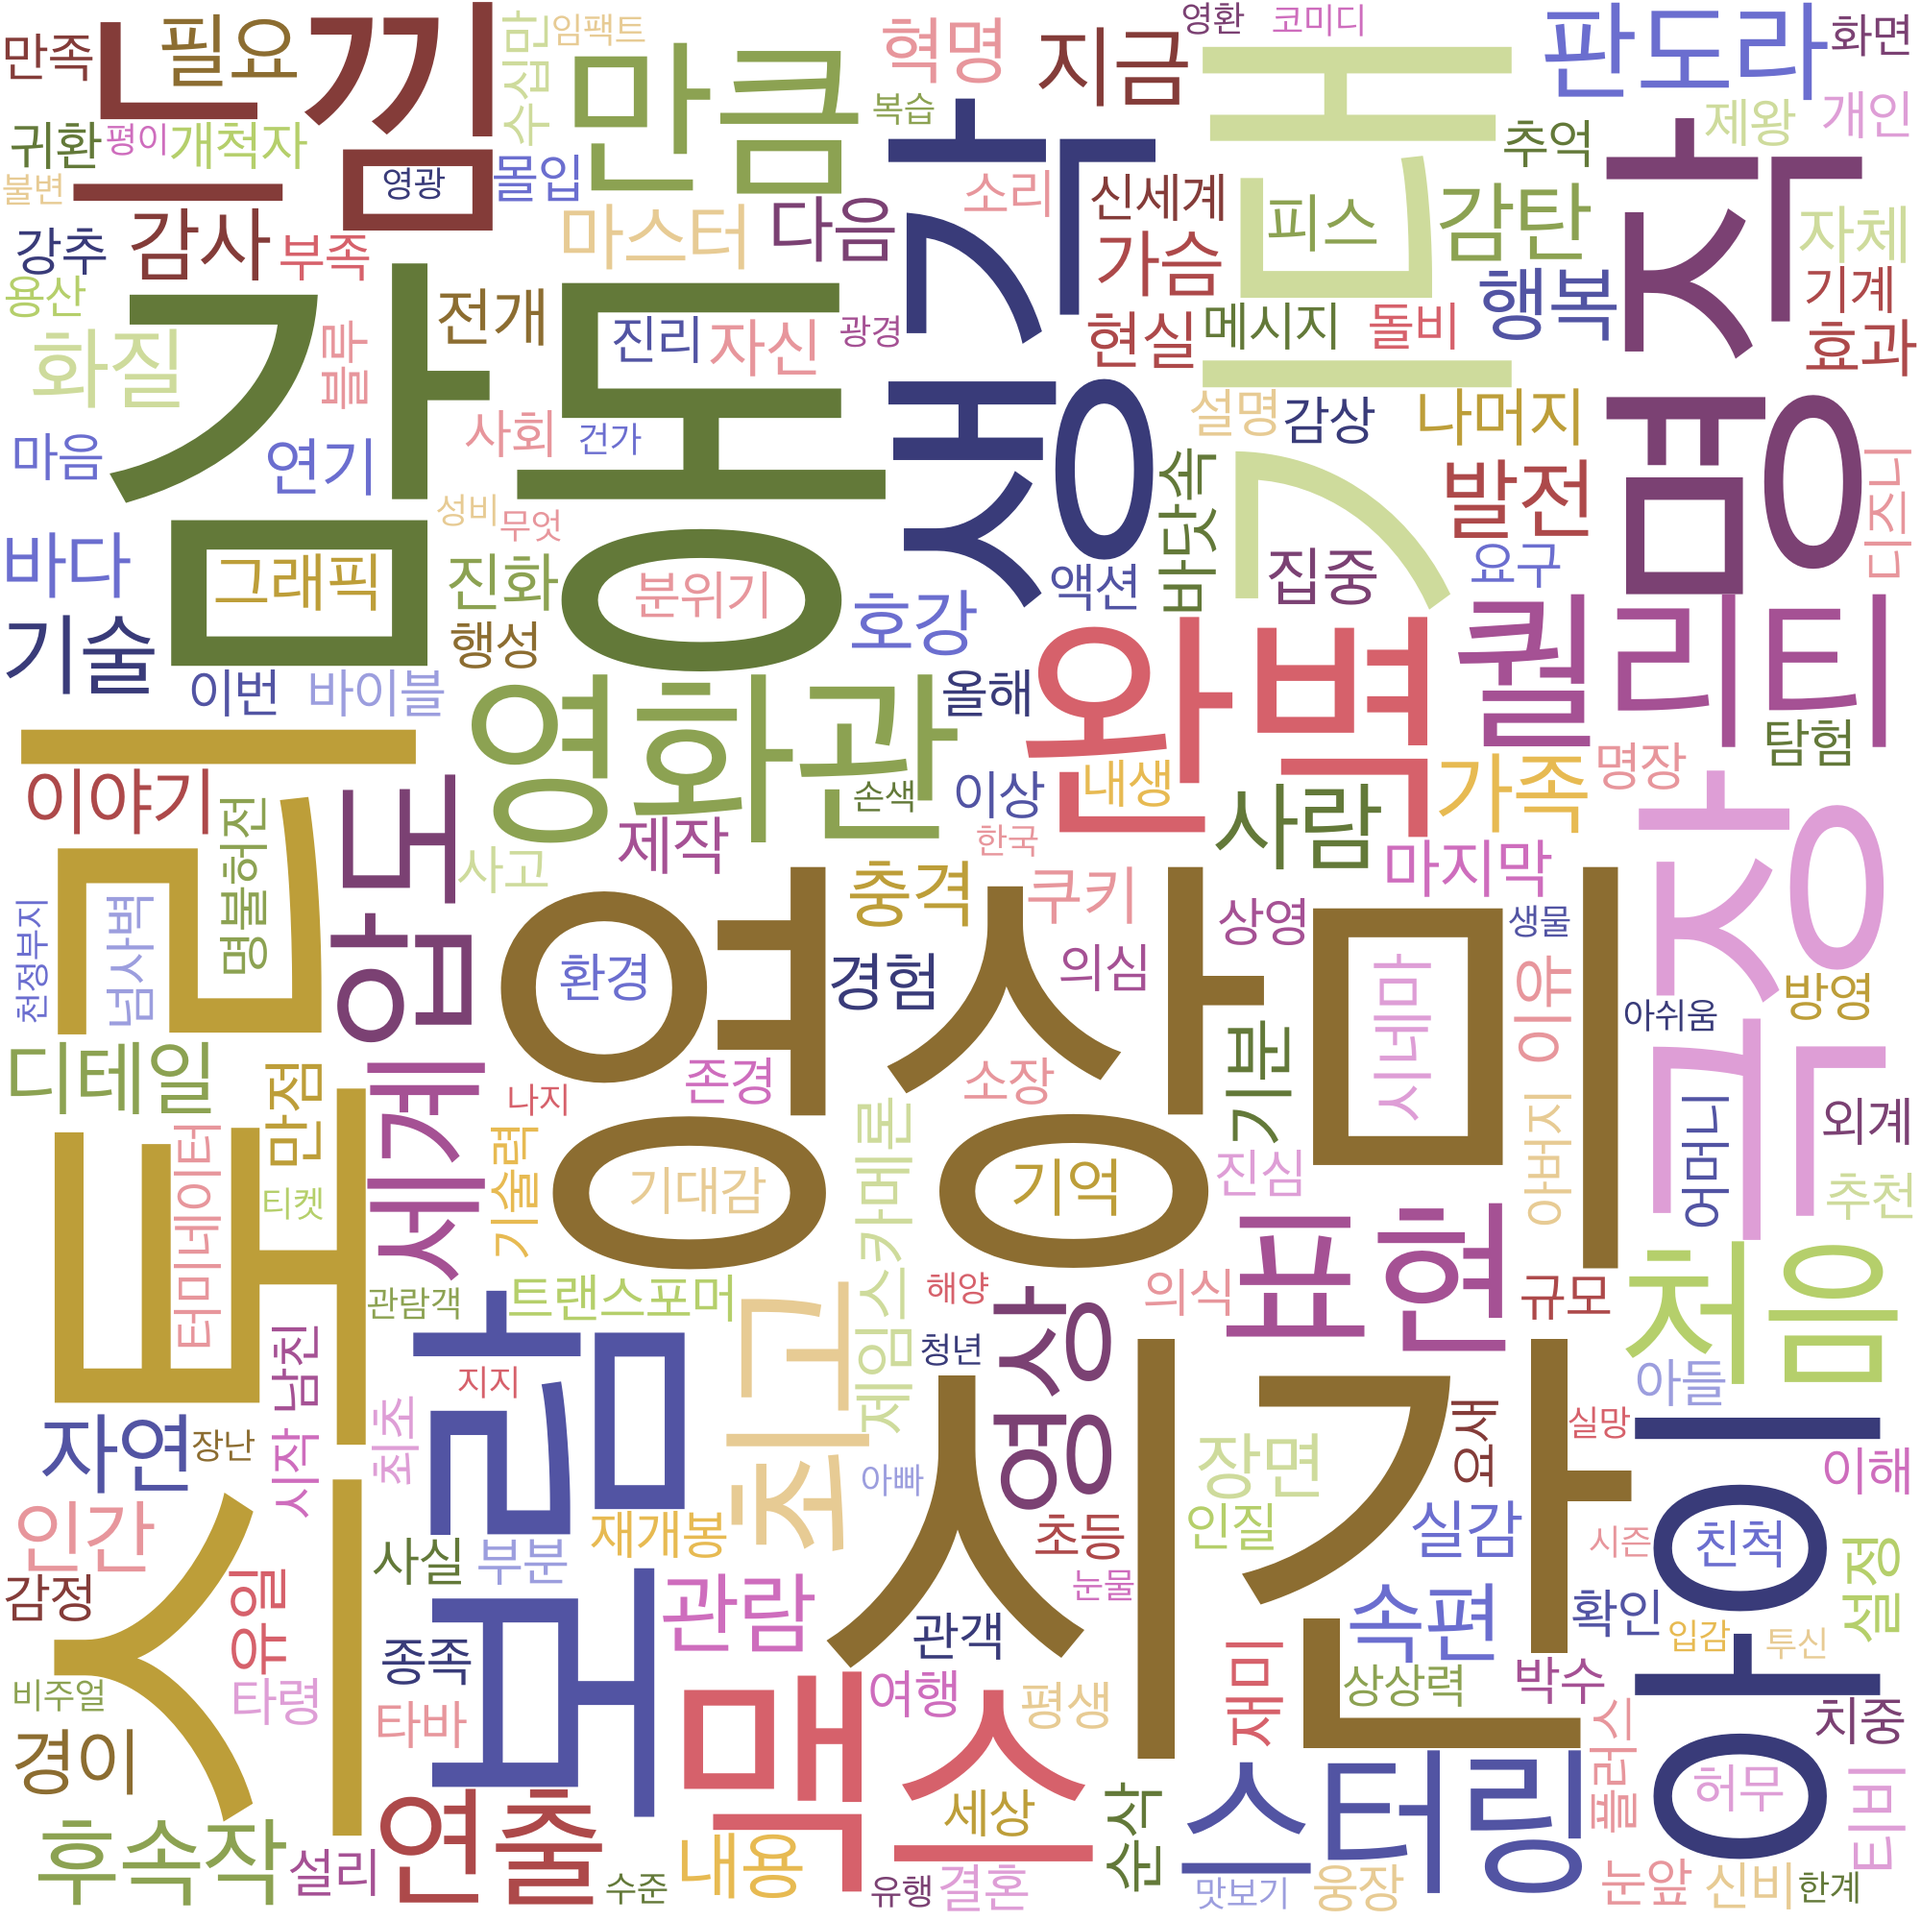
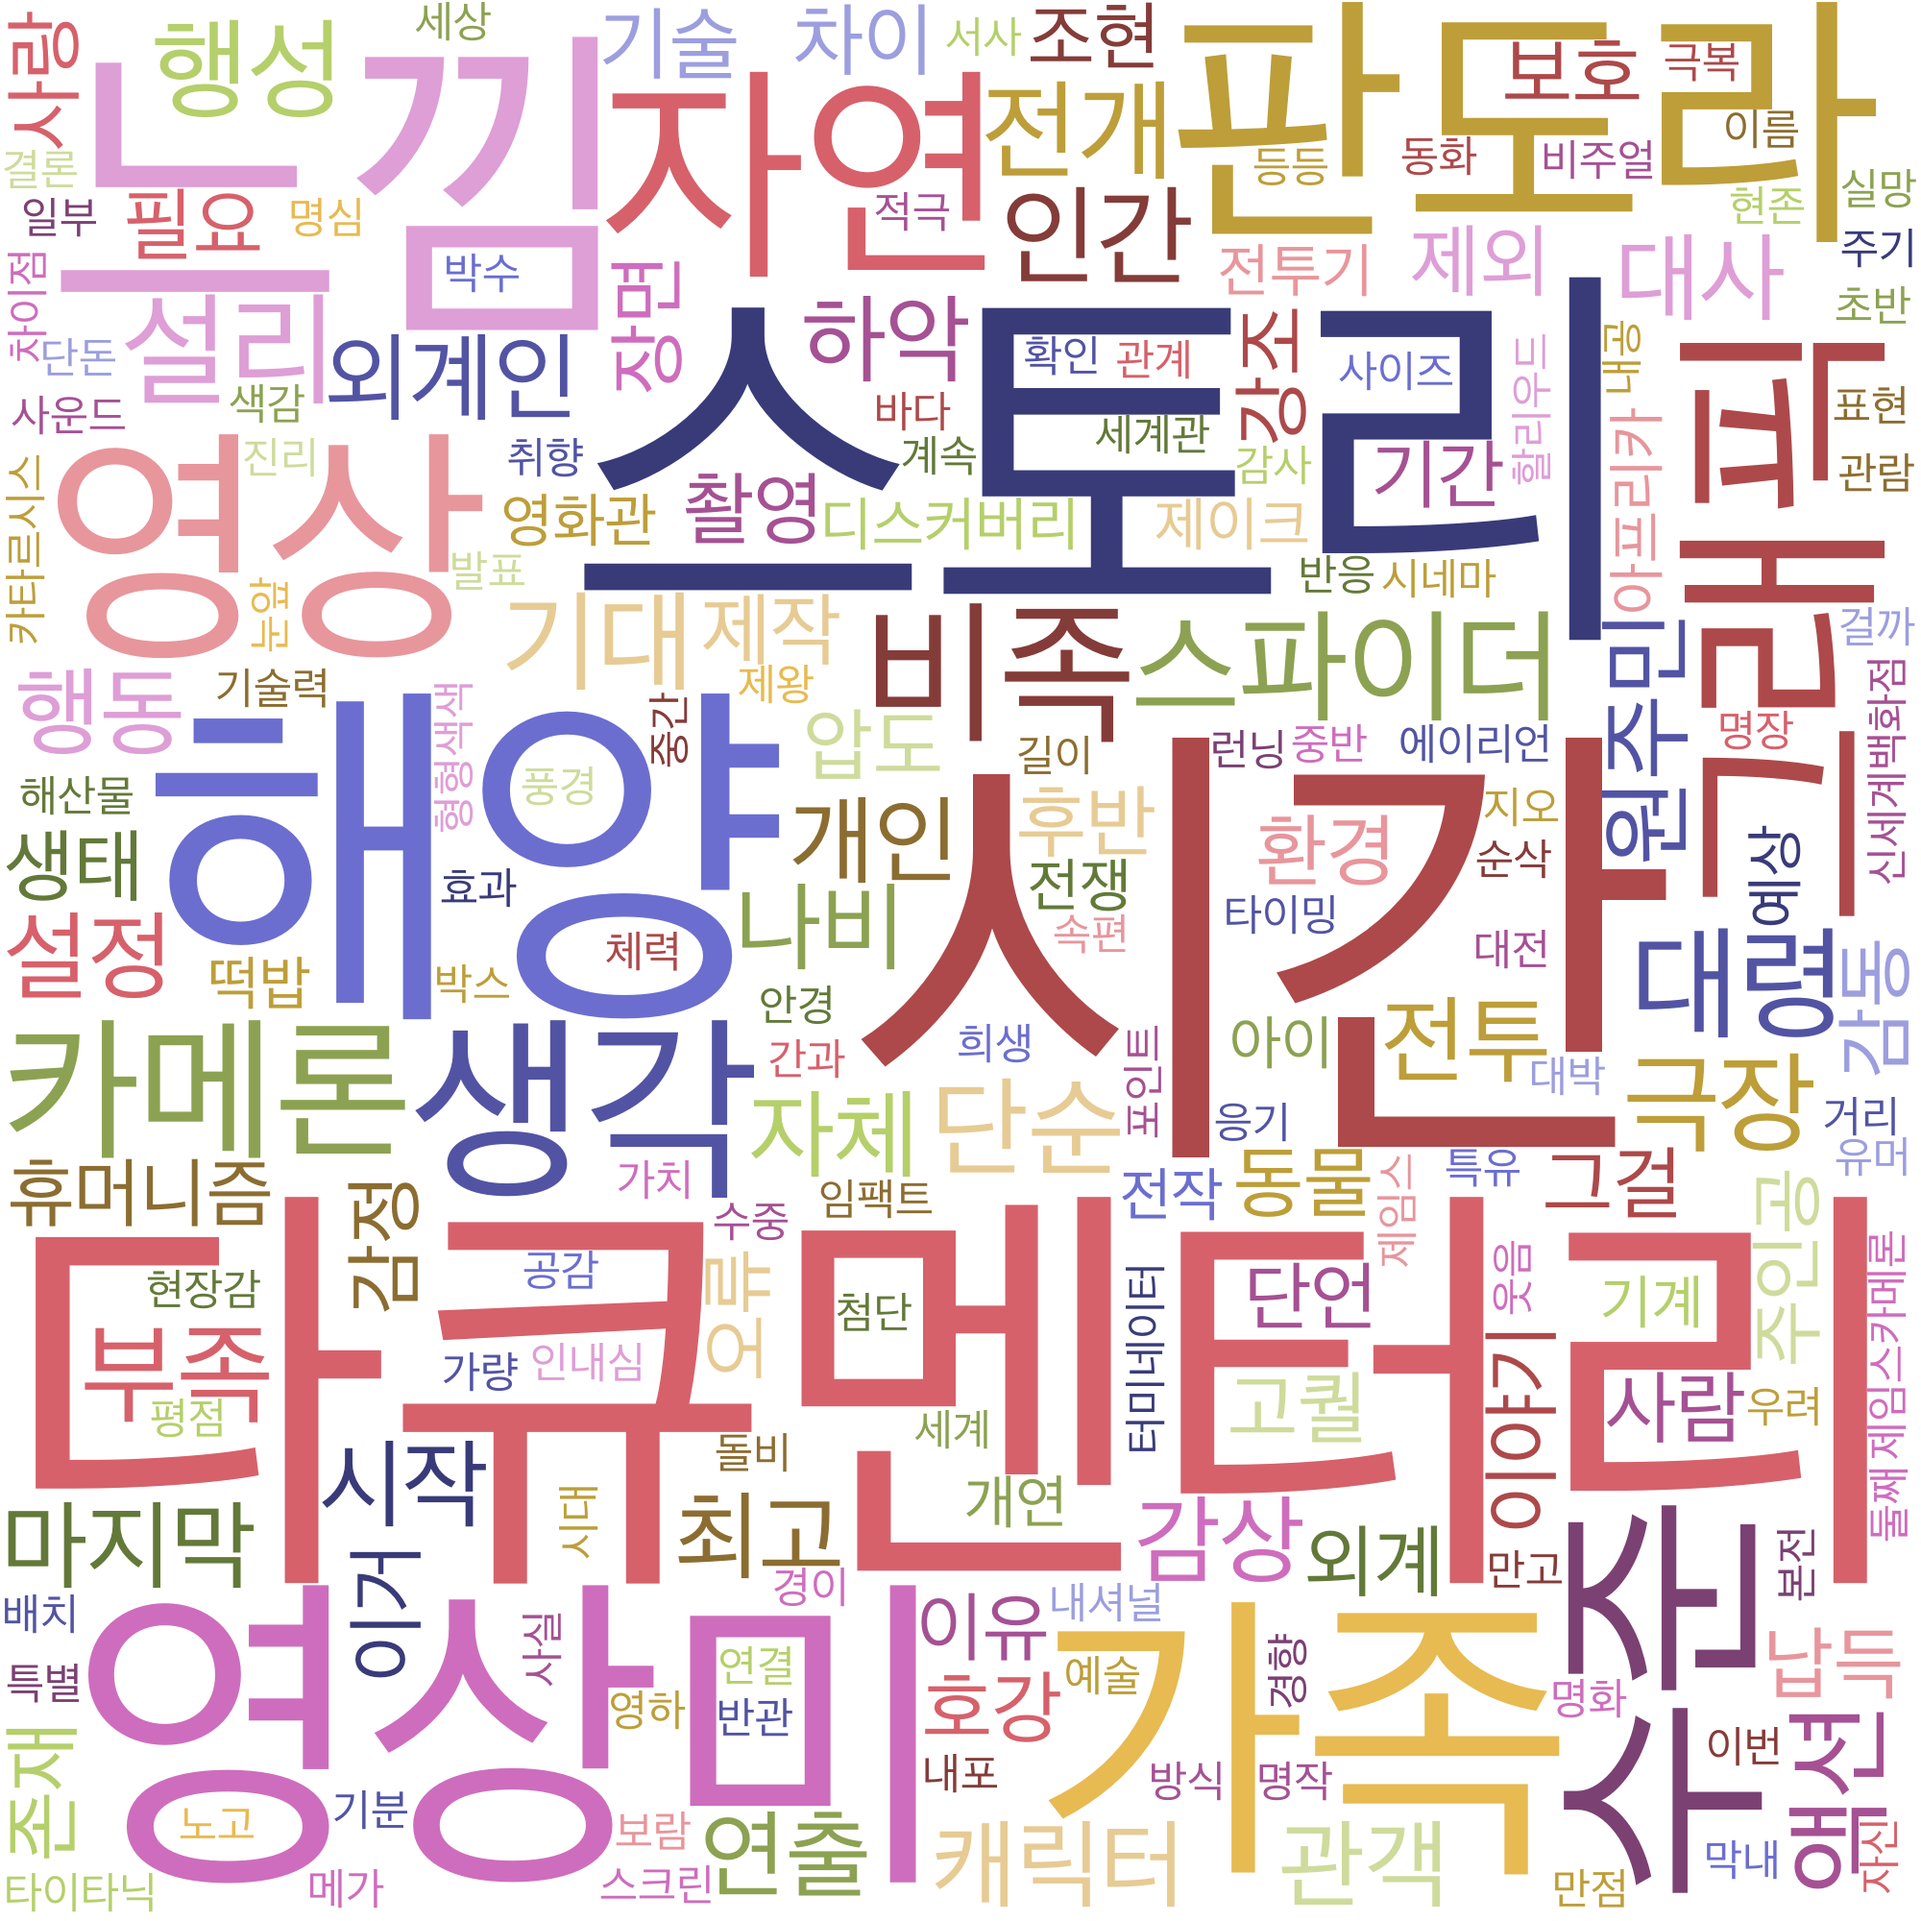
deleted unnecessary files

diff --git a/make_wordcloud.py b/make_wordcloud.py
@@ -70,7 +70,7 @@ db = DB()
 
 
 
-searching_word = '13'
+searching_word = '다큐'
 query = f'''
         SELECT * FROM Reviews
         WHERE (POSITION('{searching_word}' in content) > 0);
@@ -91,10 +91,11 @@ wordcloud = WordCloud(
 
 
 excludings = [
-    '아바타','제임스','카메론','그동안', '감독', '최근', '이게', '이걸', '과정', '그때', '그것', '요즘', '리마'
+    '아바타','그동안', '감독', '최근', '이게', '이걸', '과정', '그때', '그것', '요즘', '리마'
     ,'영화','작품','텐데','때문','하나','이건','정도','하나', '당시', '레이', '동안', '개봉', '러닝', '타임'
 
 ]
+excludings.append(searching_word)
 make_wc(all_string, excludings, wordcloud)
 
 img = Image.open('./wordcloud_pics/picture.png')
